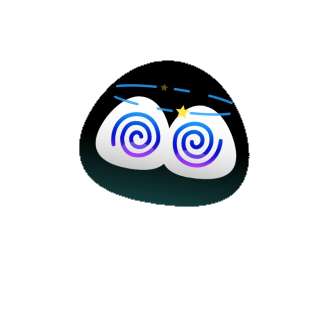
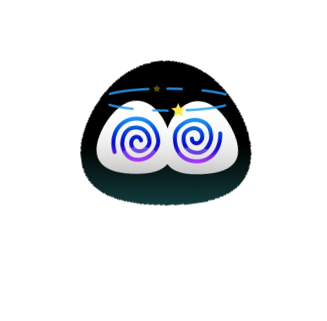
Mud spring: straighten the spiral-eye face
The source sprite has a tilted head; rotate the cut visor 8 degrees upright
and line its eyes up with the half-closed face.

Changed region(s): [[0.2446, 0.2181, 0.7951, 0.6542], [0.4281, 0.1869, 0.6116, 0.2181]]

diff --git a/mud_spring_demo/index.html b/mud_spring_demo/index.html
@@ -35,7 +35,7 @@
   /* Migo 的地面陰影：柔和、會暈開（位置照 Figma MIGO ground shadow） */
   /* 表情：跟 B 版同一套圖（半瞇眼 / 暈眼），依 Migo 身體外框換算（A 版身體大 1.1 倍） */
   .migo-e2 { left: 114px; top: 386px; width: 159px; height: 155.1px; display: none; }
-  .migo-e3 { left: 106.3px; top: 377.2px; width: 179.9px; height: 176.6px; display: none; }
+  .migo-e3 { left: 100.9px; top: 379.2px;   /* 暈眼原圖是歪頭的：已轉正 8°，兩眼中點對齊半瞇眼 */ width: 179.9px; height: 176.6px; display: none; }
   /* 身體一律用原本的 migo_calm（不變色），只把 B 版表情的臉罩疊上去 */
   .raft[data-e="2"] .migo-e2, .raft[data-e="3"] .migo-e3 { display: block; }
   .soft-shadow { position: absolute; left: 100px; top: 517px; width: 188px; height: 36px; border-radius: 50%;   /* 放在 Migo 腳底（身體底 y≈540），比身體寬一點才看得到 */
